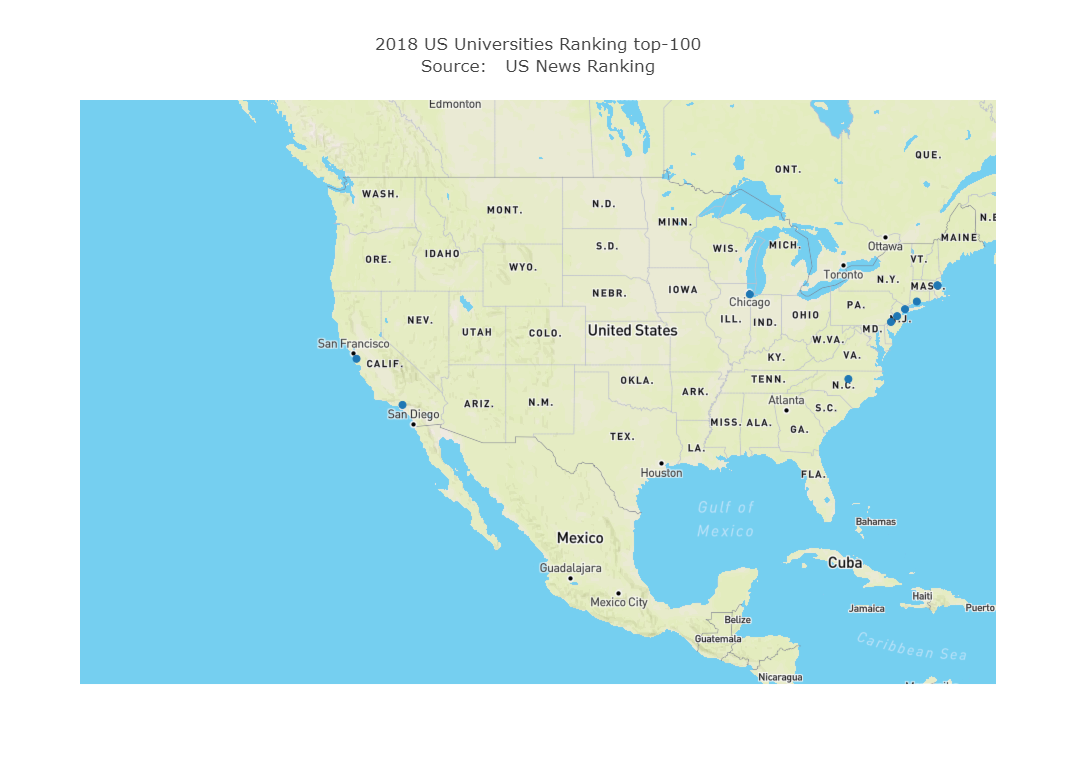
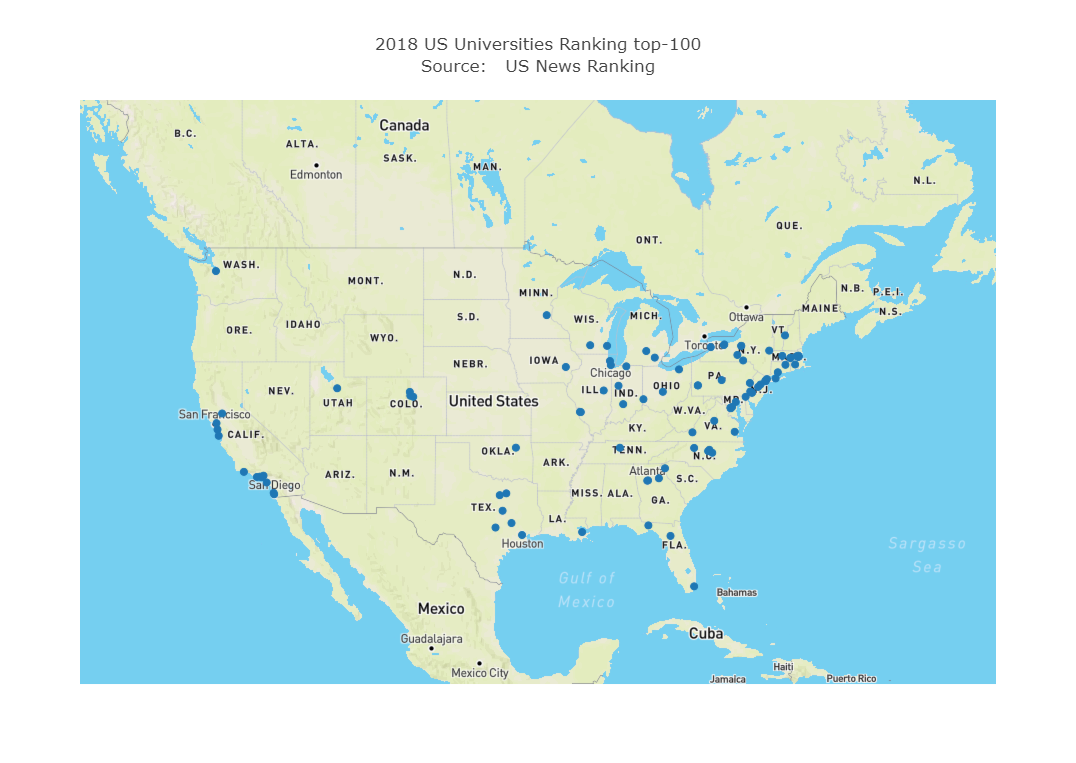
readme

diff --git a/SI507F17_finalproject.py b/SI507F17_finalproject.py
@@ -200,7 +200,7 @@ def database_store(unvss):
     insert_data(con,cur,unvss)
     
 if __name__=='__main__':
-    NPAGE=10
+    N_PAGE=10
     unvss=scrape(N_PAGE) # scrape website + get location with google map api
     database_store(unvss) #  store the result (except loaction) into database
     visualize(unvss)

diff --git a/README.md b/README.md
@@ -1,6 +1,25 @@
 # SI 507 F17 - Final Project
 
-###this is the description and report of work done in my final project:
+###this readme serves as a description and report of work done in my final project:
 
+## Part1: Introduction
 
+This final project aims to collect unversity rankings (top-100 national unversities) and other information from a website(US News Unversity Ranking Website), store them into a databse called si507_final_ywangdr, and visualize them on an interactive map.
 
+## Part2: Steps to run the code
+*0. this project uses python3.5, but any python3 verion should be fines.
+*1. Clone the repo into a local directory. You should be able to see requirements.txt in that repo, which would be used later in 3.
+*2. create a virtual environment (could be anywhere)
+*3. install the virtual environment dependancies: pip install requirements.txt
+*4. activate the virtual environment, and navigate to the repo
+*5. all the credentials are stored in config.py, however, most of the keys are already filled for you, 
+the only thing you need to do is that you need to make sure there exists a Postgres database on your lcal machine,
+ and it should named exactly "postgres", with the user being "postgres" (usually this database was automatically created for you when you installed Postgres)
+Now you need to copy the corresponding password of the database to db_password variable in config.py
+Later the program will first connect to this database, and then create a new database called si507_final_ywangdr, then connect to the new database to do operations
+*6. Do this if in step 5 you don't have a database called postgre, otherwise skip this step. You need to create a database yourself, then update db_name, db_user and db_password in config.py
+*7. Now things have been set up, you could start running SI507F17_finalproject_tests.py first to check if everything works fine. In your virtual environment, type in: python /path/to/SI507F17_finalproject_tests.py
+*8. All 15 test cases should pass.
+*9. Now you could start running SI507F17_finalproject.py
+*10. similar to 7, type in: python /path/to/SI507F17_finalproject_tests.py
+*11. the code may run for a while (maybe a minute or two, or even longer). After it finishes, your web browser should be opened and you should be directed to a webpage on which shows the final visualization of the 100 unversities on map, move your mouse over the dots and you should be able to see the metadata of a unversity
